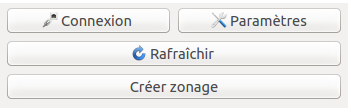
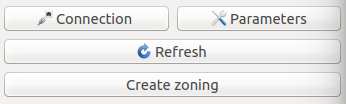
doc

Changed region(s): [[0.0, 0.0, 1.0, 1.0]]

diff --git a/i18n/PluginMapotempo_fr.ts b/i18n/PluginMapotempo_fr.ts
@@ -130,6 +130,10 @@
 <context>
     <name>DockWidget</name>
     <message>
+        <source>https://github.com/Mapotempo/mapotempo-qgis-plugin/blob/master/doc/usage_en.md">Documentation</source>
+        <translation>https://github.com/Mapotempo/mapotempo-qgis-plugin/blob/master/doc/usage_fr.md">Documentation</translation>
+    </message>
+    <message>
         <source>Planning choice</source>
         <translation>Choix Planning</translation>
     </message>

diff --git a/plugin_mapotempo_dialog.py b/plugin_mapotempo_dialog.py
@@ -98,6 +98,10 @@ class DockWidget(QtGui.QDockWidget, FORM_CLASS_WIDGET):
         self.verticalLayout_2.setObjectName(_fromUtf8("verticalLayout_2"))
         self.verticalLayout = QtGui.QVBoxLayout()
         self.verticalLayout.setObjectName(_fromUtf8("verticalLayout"))
+        self.label = QtGui.QLabel(self.dockWidgetContents)
+        self.label.setObjectName(_fromUtf8("label"))
+        self.label.setOpenExternalLinks(True)
+        self.verticalLayout.addWidget(self.label)
         self.horizontalLayout = QtGui.QHBoxLayout()
         self.horizontalLayout.setObjectName(_fromUtf8("horizontalLayout"))
         self.pushButton = QtGui.QPushButton(self.dockWidgetContents)
@@ -266,6 +270,7 @@ class DockWidget(QtGui.QDockWidget, FORM_CLASS_WIDGET):
 
     def retranslateUi(self, DockWidget):
         DockWidget.setWindowTitle(_translate("DockWidget", "Mapotempo", None))
+        self.label.setText('<a href ="' + _translate("DockWidget", 'https://github.com/Mapotempo/mapotempo-qgis-plugin/blob/master/doc/usage_en.md">Documentation', None) + '</a>')
         self.pushButton_2.setText(_translate("DockWidget", "Refresh", None))
         self.label_5.setText(_translate("DockWidget", "", None))
         self.pushButton.setText(_translate("DockWidget", "Connection", None))

diff --git a/doc/usage_fr.md b/doc/usage_fr.md
@@ -4,20 +4,20 @@ Afin d'utiliser ce plugin, il faut tout d'abord renseigner la clé et l'adresse 
 Pour cela il suffit de cliquer sur le bouton paramètres dans le panneau du plugin, renseigner les bons champs, et enfin sauvegarder.  
 Plus besoin  de les renseigner à nouveau lors d'une prochaine connexion au même compte utilisateur.
 
-!["texte"](./images/connection.png)
+!["texte"](./images/connexion.png)
 
 ## Récupérer les éléments de l'API
 Cliquer ensuite sur le bouton connexion, cela va lister les plannings existants. Choisissez ensuite le planning voulu.  
 Après le chargement, vous pouvez voir tous les éléments du planning qui sont apparus.  
 Il est possible de rajouter un fond de carte afin de mieux visualiser les éléments du planning. Pour cela il faut ajouter une extension QGIS (Open Layer plugins par exemple)
 
-!["texte"](./images/chooseplanning.png)
+!["texte"](./images/choisirplanning.png)
 
 ## Fonctionnalités
 ### Créer un zonage
 Pour cela cliquer sur créer un zonage. Choisir un nom et sauvegarder
 
-!["texte"](./images/createzoning.png)
+!["texte"](./images/creerzonage.png)
 
 ### Éditer des attributs des jeux de données
 Choisir le layer dans lequel les données à modifier sont présentes. Mettre le layer en mode édition. Ouvrir la table des attributs, puis quand les données ont été modifiées sauvegarder le layer.
@@ -36,9 +36,9 @@ Cocher ou décocher la  case propre à la livraison
 ### Appliquer un zonage
 Choisir un zonage à appliquer dans le menu déroulant et cliquer sur appliquer zonage
 
-!["texte"](./images/applyzoning.png)
+!["texte"](./images/appliquerzonage.png)
 
 ### Optimiser une tournée
 Clic droit sur la tournée à optimiser puis cliquer sur optimiser la tournée
 
-!["texte"](./images/optimize.png)
+!["texte"](./images/optimiser.png)

diff --git a/doc/usage_en.md b/doc/usage_en.md
@@ -3,22 +3,30 @@
 In order to use this plugin, API key and API URL have to be filled.
 Clic on parameter button in plugin panel, fill parameters correctly and save.  
 Next time no need to fill parameters for the same account.
-
+!["texte"](./images/connection.png)
 ## Get API elements
 Clic on connection, it will list existing plannings. Choose a planning.  
 It is possible to add a map behind all layers. For that, A QGIS plugin is needed (Open Layer plugins for example)
+!["texte"](./images/chooseplanning.png)
 ## Functionalities
 ### Create a zoning
 Clic on create a zoning. Choose a name and save.
+!["texte"](./images/createzoning.png)
 ### Edit data attributes
 Choose the layer going to be modified. Clic on edit layer. Open attributes table and save after the modifications.
+!["texte"](./images/edit.png)
 ### Change zone form
 Choose the layer going to be modified. Clic on edit layer. Then it's possible to modify the zone form with all QGIS tools
+!["texte"](./images/edit.png)
 ### Change delivery order or delivery route
 Drag and drop the delivery
+
 ### Active / Deactive a delivery
 Check or uncheck the delivery's box
 ### Apply zoning
 Choose a zoning to apply and clic on apply zoning
+!["texte"](./images/applyzoning.png)
+
 ### Optimize a route
 Right clic on a route and then clic on optimize the route
+!["texte"](./images/optimize.png)
